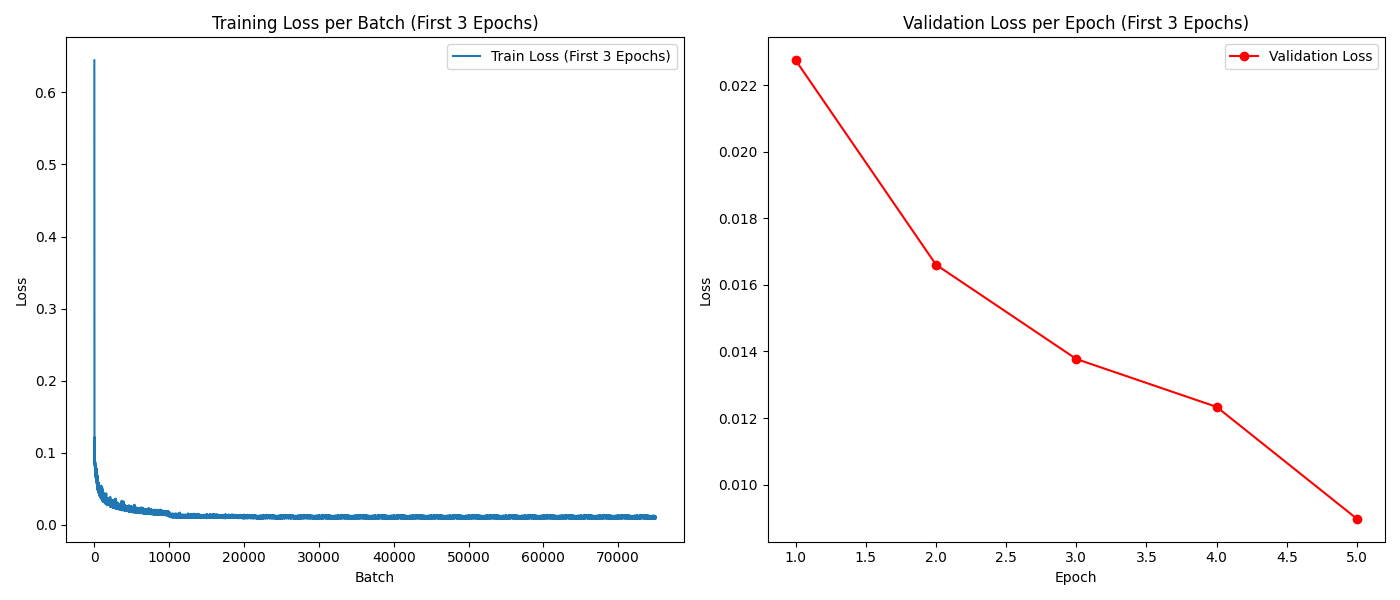
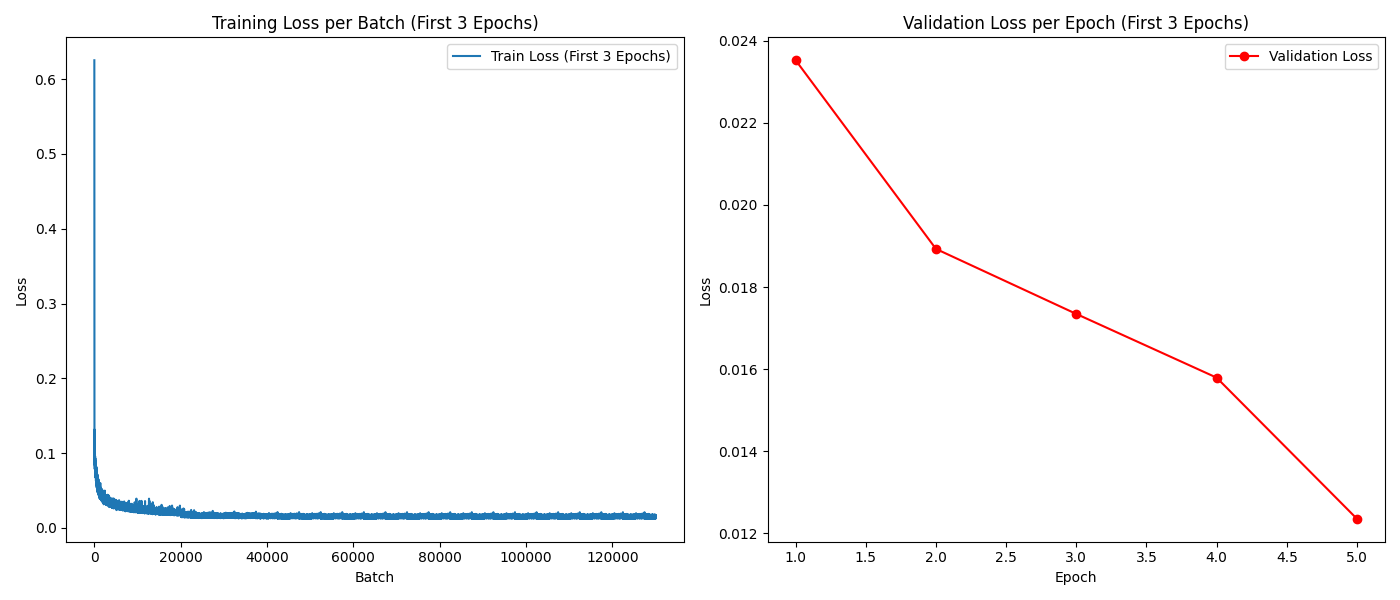
added support for mteb, as a method

diff --git a/auto-encoder/concat_autoencode_eval.py b/auto-encoder/concat_autoencode_eval.py
@@ -4,11 +4,14 @@ from huggingface_hub import PyTorchModelHubMixin, HfApi
 import numpy as np
 import torch
 import sys
+
 import os
 
 from model import AutoEncoder 
 from config import MODEL_CATALOGUE # {model_name: model_hugging_face_id}
 
+
+os.environ["TOKENIZERS_PARALLELISM"] = "false"
 
 big   = ("e5", "mxbai")
 small = ("e5-small", "bge-small")
@@ -18,14 +21,6 @@ nm1, nm2 = big
 model_names = [MODEL_CATALOGUE[nm1], MODEL_CATALOGUE[nm2]]
 main_models = [SentenceTransformer(nm).to("cuda") for nm in model_names]
 
-
-INPUT_DIM       = int(sys.argv[1])
-COMPRESSED_DIM  = int(sys.argv[2])
-
-CHECKPOINT_PATH = None 
-
-if len(sys.argv) > 3:
-    CHECKPOINT_PATH = sys.argv[3]
 
 import torch.nn as nn
 
@@ -46,7 +41,6 @@ class CombinedSentenceTransformer(nn.Module, PyTorchModelHubMixin):
     ):
         super().__init__()
         PyTorchModelHubMixin.__init__(self)
-        ## ?  remove later
 
         self.models = models
         self.device = device
@@ -55,9 +49,11 @@ class CombinedSentenceTransformer(nn.Module, PyTorchModelHubMixin):
             model.eval()
         
         if autoencoder_path:
-            print(autoencoder_path)
             self.use_autoencoder = True
-            self.autoencoder = AutoEncoder(input_dim=input_dim, compressed_dim=compressed_dim)
+            self.input_dim       = INPUT_DIM
+            self.compressed_dim  = COMPRESSED_DIM 
+            self.autoencoder_path = autoencoder_path 
+            self.autoencoder = AutoEncoder(input_dim=self.input_dim, compressed_dim=self.compressed_dim)
             self.autoencoder.load_state_dict(torch.load(autoencoder_path, map_location=self.device))
             self.autoencoder.to(self.device)
             self.autoencoder.eval()  # Set to evaluation mode
@@ -65,8 +61,6 @@ class CombinedSentenceTransformer(nn.Module, PyTorchModelHubMixin):
             self.use_autoencoder = False
             self.autoencoder = None
 
-
-   
     
     def generate_embeddings(self, embeddings_paths, output_path, batch_size=512):
         """
@@ -235,6 +229,39 @@ class CombinedSentenceTransformer(nn.Module, PyTorchModelHubMixin):
         model.to(model.device)
         return model
 
+    def mteb_eval(
+        self, 
+        task_name=None, 
+        output_folder=None,
+    ):
+        import mteb ## i do late cuz of reasons.
+        if output_folder is None:
+            output_folder = "results"
+
+        if task_name is None:
+            from mteb.benchmarks import MTEB_MAIN_EN
+            tasks = MTEB_MAIN_EN
+            print("Running evaluation on all MTEB tasks.")
+        else:
+            print(f"Running evaluation on the task: {task_name}")
+            tasks = mteb.get_tasks(tasks=[task_name])
+
+        evaluation = mteb.MTEB(
+            tasks=tasks,
+        )
+
+        if self.use_autoencoder:
+            output_folder = f"{output_folder}/{self.input_dim}_{self.compressed_dim}/X{CHECKPOINT_PATH}"
+            results = evaluation.run(self, output_folder=output_folder)
+        else:
+            print("Attempting to evaluate without autoencoder.")
+            output_folder = f"{output_folder}/no_autoencoder"
+            results = evaluation.run(self, output_folder=output_folder)
+
+        print(f"Evaluation results saved to {output_folder}")
+
+        return results ## 
+    
     def to(self, device):
         self.device = device
         for model in self.models:
@@ -243,80 +270,23 @@ class CombinedSentenceTransformer(nn.Module, PyTorchModelHubMixin):
             self.autoencoder.to(device)
 
 
-autoencoder_path_ = None
-if CHECKPOINT_PATH is not None:
-    autoencoder_path_ = f'models_pth/{INPUT_DIM}_{COMPRESSED_DIM}/{CHECKPOINT_PATH}'
-
 if __name__ == "__main__":
-    print(f"AE path >>", autoencoder_path_) 
+    
+
+    if len(sys.argv) > 1:
+        INPUT_DIM       = int(sys.argv[1])
+        COMPRESSED_DIM  = int(sys.argv[2])
+        CHECKPOINT_PATH = None 
+        if len(sys.argv) > 3:
+            CHECKPOINT_PATH = sys.argv[3]
+    
     combined_model = CombinedSentenceTransformer(
         models=main_models,  
-        autoencoder_path=autoencoder_path_,
-        input_dim=INPUT_DIM,
-        compressed_dim=COMPRESSED_DIM,
-        device='cuda' if torch.cuda.is_available() else 'cpu'
+        #autoencoder_path=autoencoder_path_,
+        #input_dim=INPUT_DIM,
+        #compressed_dim=COMPRESSED_DIM,
+        device='cuda'
     )
 
-    import mteb
-    tasks = mteb.get_tasks(tasks=["NFCorpus"]) 
-    evaluation = mteb.MTEB(tasks=tasks, eval_splits=["test"], metric="ndcg@10")
-    results = evaluation.run(combined_model, output_folder = f"results/mix_{COMPRESSED_DIM}_{CHECKPOINT_PATH}")
+    combined_model.mteb_eval()
 
-
-
-"""
-repo_url = "https://huggingface.co/benayad7/concat-e5-small-bge-small-01"
-
-combined_model = CombinedSentenceTransformer(
-    models=main_models,
-    autoencoder_path=autoencoder_path_,  
-    input_dim= INPUT_DIM,  
-    compressed_dim= COMPRESSED_DIM,
-    device='cuda' if torch.cuda.is_available() else 'cpu',
-    #repo_url=repo_url,
-    #pipeline_tag="text-embedding",
-    #license="mit",
-)
-
-
-device = 'cuda' if torch.cuda.is_available() else 'cpu'
-combined_model.to(device)
-
-
-
-    # Repeat the process for the validation set
-    e5_val_embeddings_path = "data/e5_wiki_500k/val_embeddings.npy"
-    mxbai_val_embeddings_path = "data/mxbai_wiki_500k/val_embeddings.npy"
-    output_val_embeddings_path = "data/combined_embeddings/val_embeddings.npy"
-
-    combined_model.generate_embeddings(
-        embeddings_paths=[e5_val_embeddings_path, mxbai_val_embeddings_path],
-        output_path=output_val_embeddings_path,
-        batch_size=512
-    )
-
-    print("Combined embeddings have been generated and saved.")
-
-    e5_train_embeddings_path    = "../data/e5_wiki_500k/train_embeddings.npy"
-    mxbai_train_embeddings_path = "../data/mxbai_wiki_500k/train_embeddings.npy"
-
-    output_train_embeddings_path = "../data/mix_train_embeddings.npy"
-    autoencoder_path = "models_pth/2048_768/013036.pth"
-
-    e5_embeddings_sample    = np.load(e5_train_embeddings_path,    mmap_mode='r')
-    mxbai_embeddings_sample = np.load(mxbai_train_embeddings_path, mmap_mode='r')
-
-    e5_dim = e5_embeddings_sample.shape[1]
-    mxbai_dim = mxbai_embeddings_sample.shape[1]
-
-    INPUT_DIM = e5_dim + mxbai_dim
-    COMPRESSED_DIM = 768 
-
-    # Generate combined embeddings for the training set
-    combined_model.generate_embeddings(
-        embeddings_paths=[e5_train_embeddings_path, mxbai_train_embeddings_path],
-        output_path=output_train_embeddings_path,
-        batch_size=512
-    )
-
-"""

diff --git a/auto-encoder/model.py b/auto-encoder/model.py
@@ -3,35 +3,40 @@
 import torch.nn as nn
 from config import INPUT_DIM, COMPRESSED_DIM
 
+
+n_0 = 1792 
+n_1 = 1500 
+n_2 = 1024
+
 class AutoEncoder(nn.Module):
     def __init__(self, input_dim=2048, compressed_dim=768):
         super(AutoEncoder, self).__init__()
 
         # Encoder
         self.encoder = nn.Sequential(
-            nn.Linear(input_dim, 1792),
-            nn.BatchNorm1d(1792),
+            nn.Linear(input_dim, n_0),
+            nn.BatchNorm1d(n_0),
             nn.LeakyReLU(0.2, inplace=True),
 
-            nn.Linear(1792, 1024),
-            nn.BatchNorm1d(1024),
+            nn.Linear(n_0, n_1),
+            nn.BatchNorm1d(n_1),
             nn.LeakyReLU(0.2, inplace=True),
 
-            nn.Linear(1024, compressed_dim),
+            nn.Linear(n_1, compressed_dim),
         )
 
         # Decoder
         self.decoder = nn.Sequential(
 
-            nn.Linear(compressed_dim, 1024),
-            nn.BatchNorm1d(1024),
+            nn.Linear(compressed_dim, n_1),
+            nn.BatchNorm1d(n_1),
             nn.LeakyReLU(0.2, inplace=True),
 
-            nn.Linear(1024, 1792),
-            nn.BatchNorm1d(1792),
+            nn.Linear(n_1, n_0),
+            nn.BatchNorm1d(n_0),
             nn.LeakyReLU(0.2, inplace=True),
 
-            nn.Linear(1792, input_dim),
+            nn.Linear(n_0, input_dim),
         )
 
     def forward(self, x):

diff --git a/auto-encoder/config.py b/auto-encoder/config.py
@@ -13,7 +13,7 @@ VAL_SAVE_PATH = os.path.join(SAVE_DIR, "val_embeddings.npz")
 
 RECONSTRUCTIONS_DIR = "reconstructions"
 
-BATCH_SIZE = 32
+BATCH_SIZE = 16
 NUM_EPOCHS = 30
 
 # optimizer // scheduler

diff --git a/README.md b/README.md
@@ -44,10 +44,10 @@ Focusing on the 768 compression as it would be needed later on to augment, a sim
 
 | ndcg@10 | val loss |
 |---------|----------|
-| 0.35667 | 0.018992 |
-| 0.36019 | 0.017579 |
-| 0.36951 | 0.016789 |
-| 0.37037 | 0.013036 | 
+| 0.35667     | 0.018992 |
+| 0.36019     | 0.017579 |
+| 0.36951     | 0.016789 |
+| 0.37037     | 0.013036 | 
 | **0.37876** | 0.008813 | 
 
 ### Small models (<35M):
